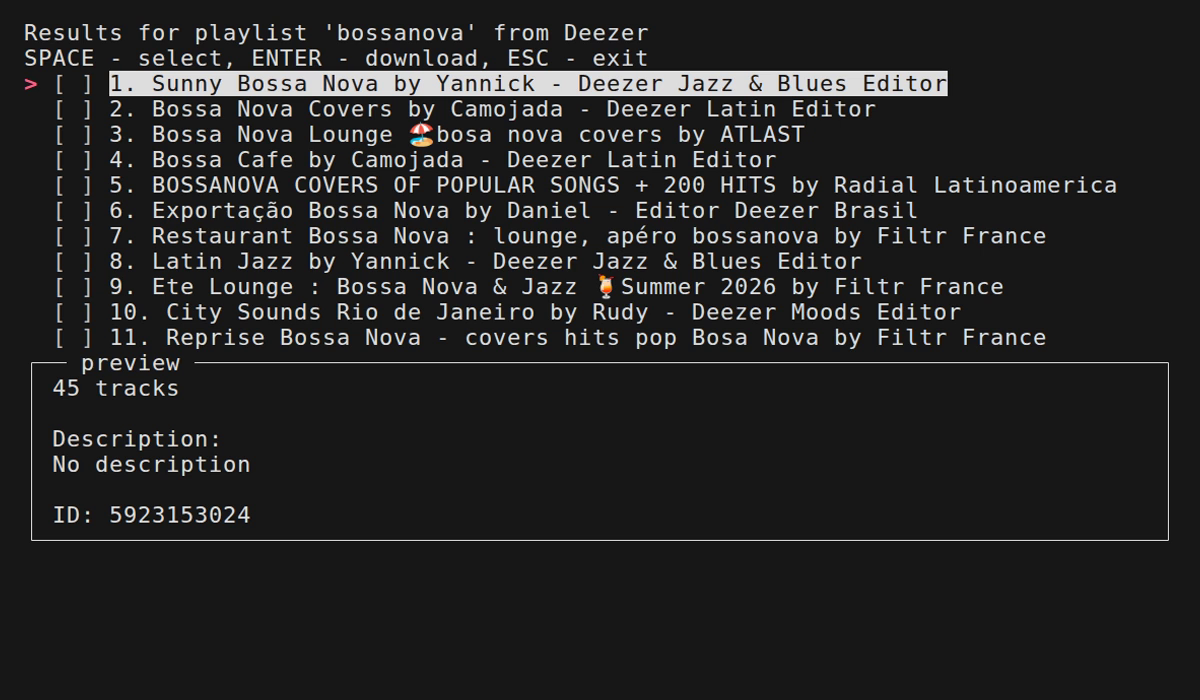
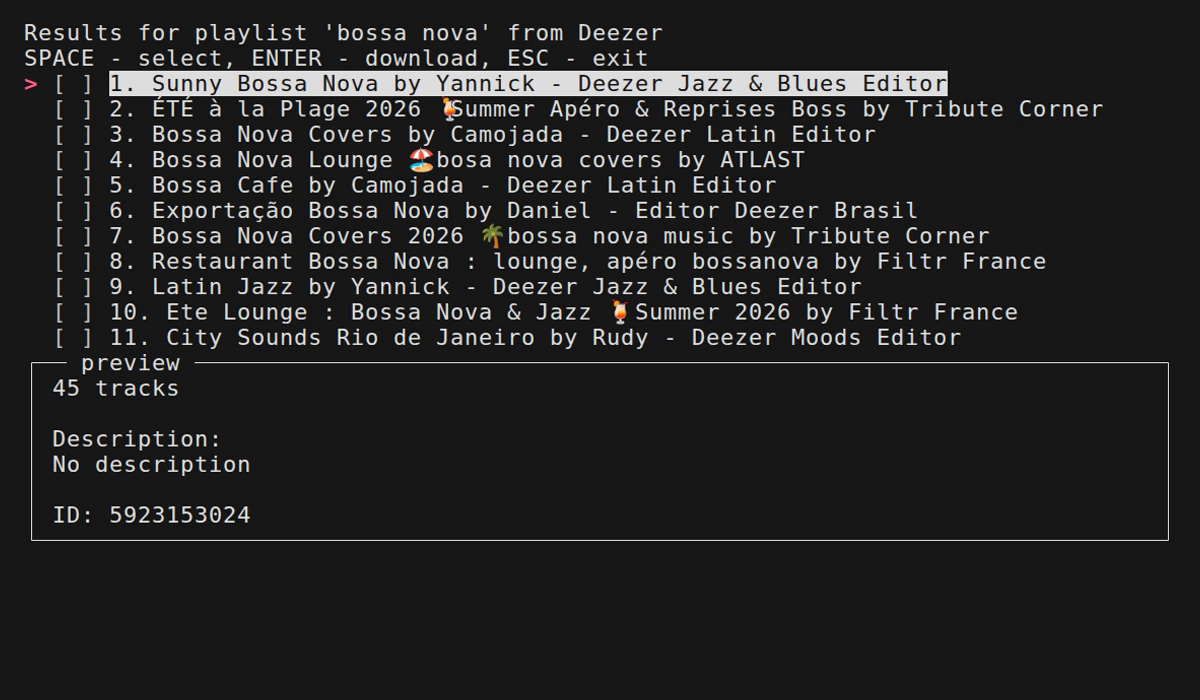
update demo picture

Changed region(s): [[0.1233, 0.12, 0.925, 0.51], [0.3392, 0.03, 0.555, 0.06]]

diff --git a/README.md b/README.md
@@ -91,7 +91,7 @@ rip --quality 3 url https://tidal.com/browse/album/147569387
 Search for playlists matching `rap` on Tidal
 
 ```bash
-rip search tidal playlist 'rap'
+rip search tidal playlist 'bossa nova'
 ```
 
 ![streamrip interactive search](https://github.com/berettavexee/streamrip/blob/dev/demo/playlist_search.png?raw=true)
